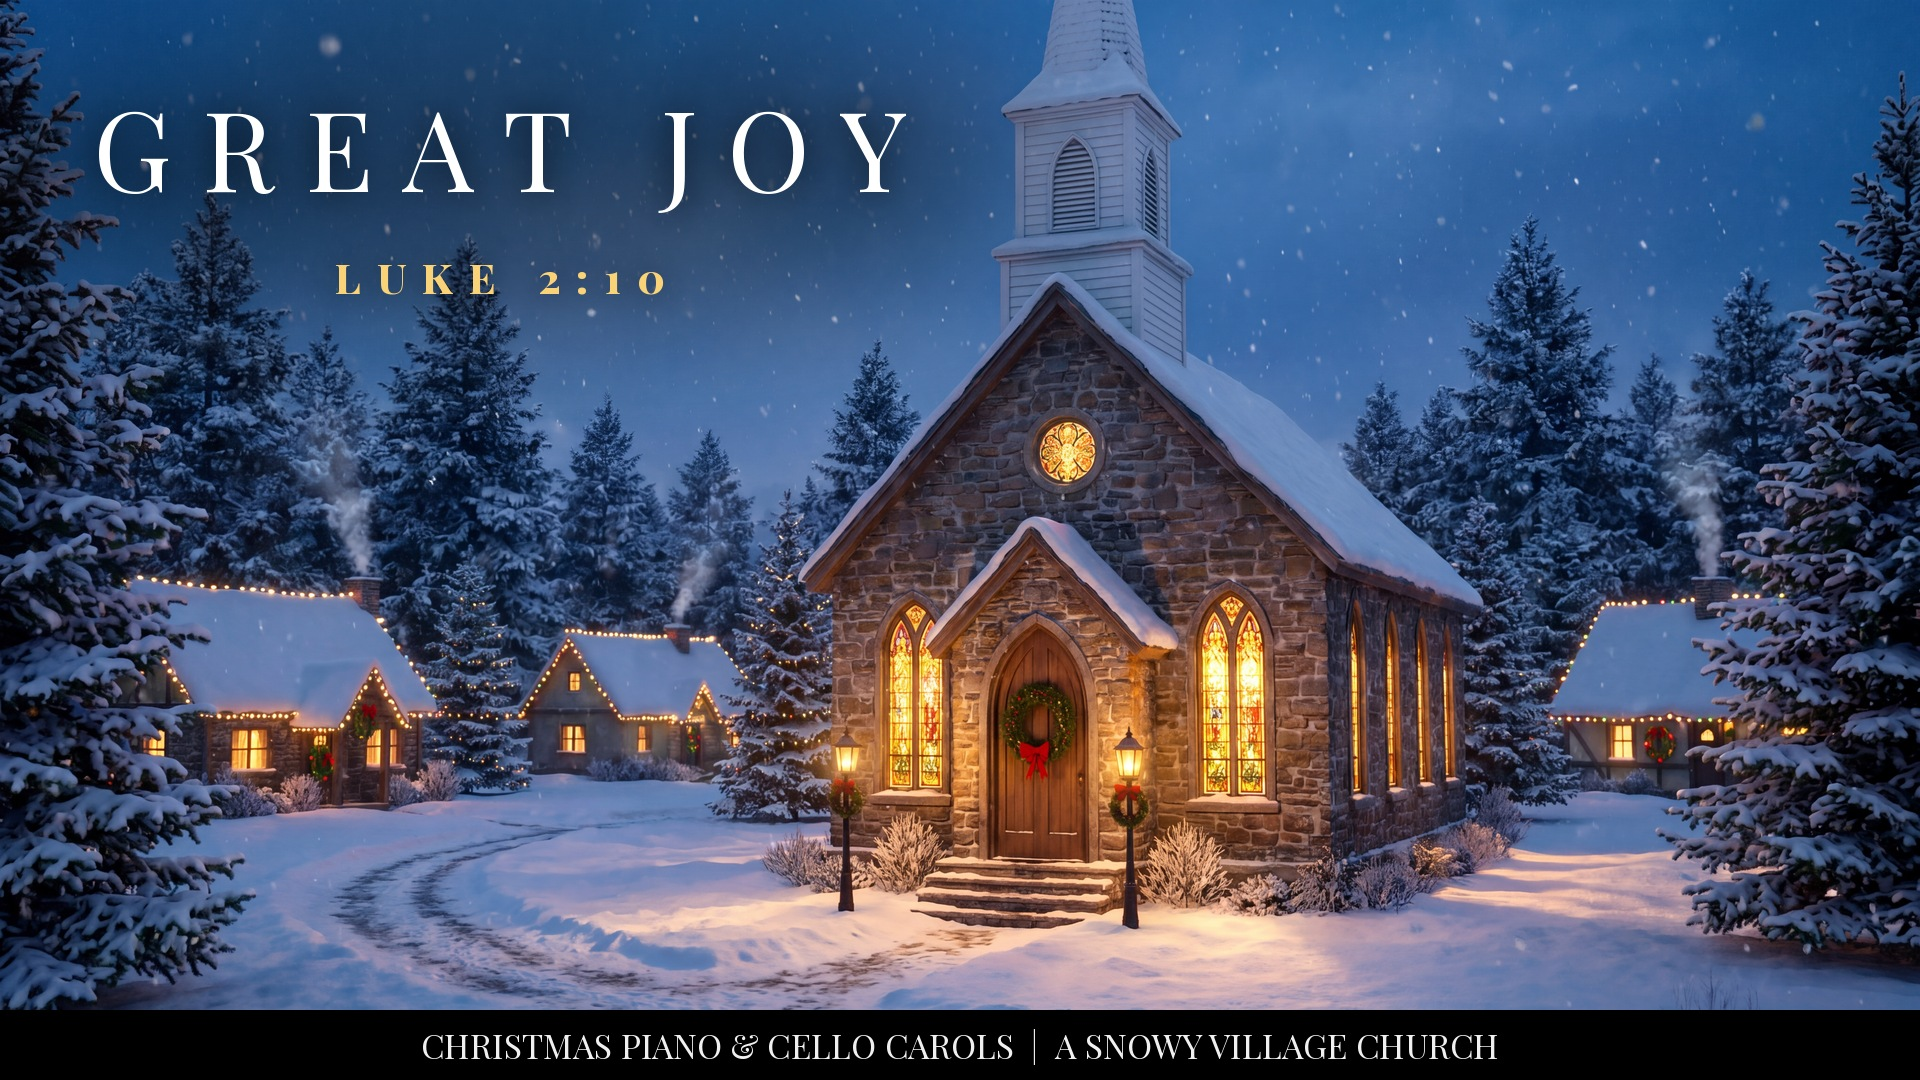
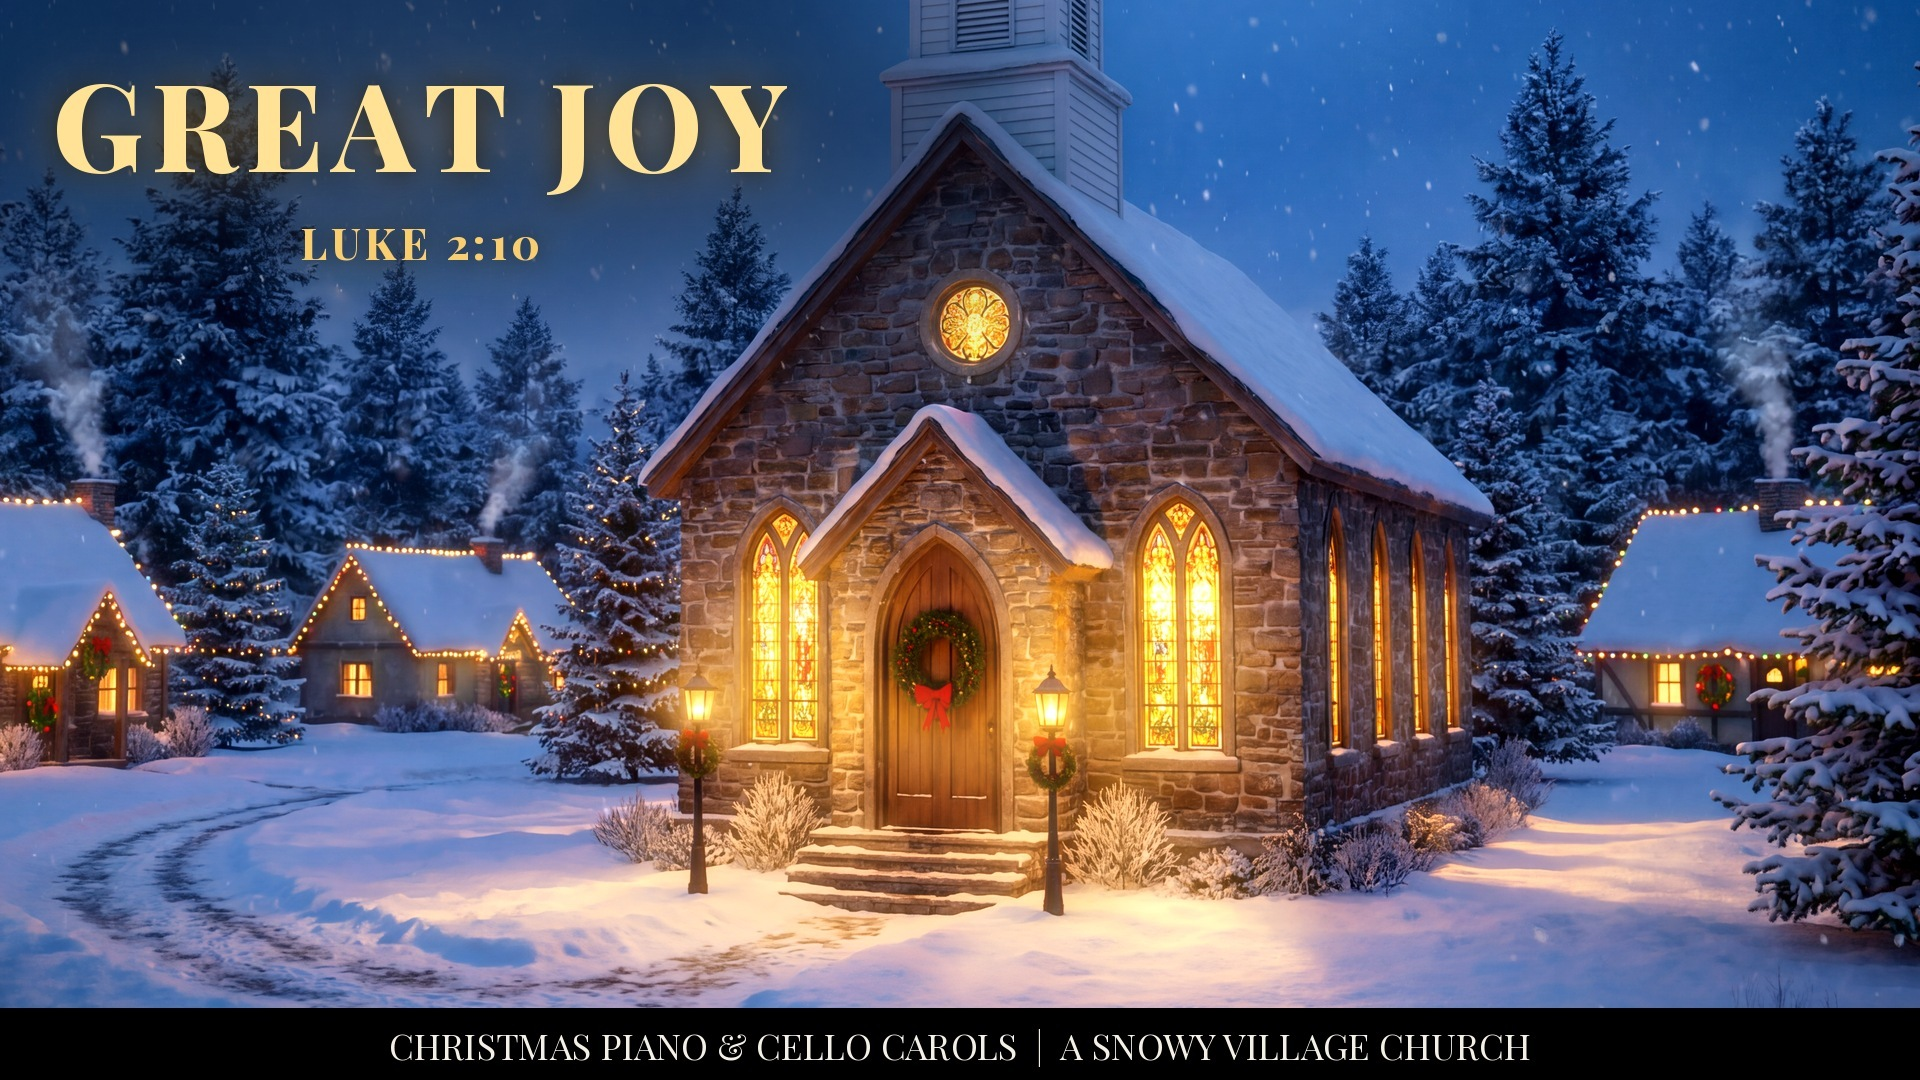
Great Joy: bolder cover B, intro opens on cover and eases out to full view
Claude-Session: https://claude.ai/code/session_01YR5eRpJdogsjAzxdU8Z7gL

diff --git a/christmas-church-render/cover_bold.py b/christmas-church-render/cover_bold.py
@@ -1,0 +1,58 @@
+# Bolder cover options for GREAT JOY. Usage: python3 cover_bold.py still_4k.png outdir
+import sys, os, numpy as np
+from PIL import Image, ImageDraw, ImageFont, ImageFilter, ImageEnhance, ImageChops
+B=os.path.dirname(os.path.abspath(__file__)); F=B+"/fonts/"; W,H=1920,1080
+src=Image.open(sys.argv[1]).convert("RGB"); out=sys.argv[2]
+STRIP="CHRISTMAS PIANO & CELLO CAROLS  |  A SNOWY VILLAGE CHURCH"
+def font(n,s,wt=None):
+    f=ImageFont.truetype(F+n,s)
+    if wt:
+        try: f.set_variation_by_axes([wt])
+        except Exception: pass
+    return f
+def crop(cx,cy,cw):
+    W0,H0=src.size; w=int(W0*cw); h=int(w*9/16); x0=max(0,min(W0-w,int(W0*cx-w/2))); y0=max(0,min(H0-h,int(H0*cy-h/2)))
+    return src.crop((x0,y0,x0+w,y0+h)).resize((W,H),Image.LANCZOS)
+def punch(im):
+    im=ImageEnhance.Color(im).enhance(1.18); im=ImageEnhance.Contrast(im).enhance(1.10)
+    a=np.asarray(im).astype(np.float32)/255
+    lum=a.max(axis=2); warm=(a[...,0]>a[...,2]+0.08)&(lum>0.55)            # warm light: windows, lamps, bulbs
+    m=Image.fromarray((warm*255).astype(np.uint8)).filter(ImageFilter.GaussianBlur(18))
+    glow=Image.composite(Image.new("RGB",(W,H),(255,170,70)),Image.new("RGB",(W,H),(0,0,0)),m)
+    im=ImageChops.screen(im,ImageEnhance.Brightness(glow).enhance(0.55))
+    v=Image.new("L",(W,H),0); ImageDraw.Draw(v).ellipse((-300,-250,W+300,H+250),fill=255)
+    v=v.filter(ImageFilter.GaussianBlur(200)); return Image.composite(im,Image.new("RGB",(W,H),(4,6,14)),v)
+def spaced(d,text,f,y,fill,spc,cx):
+    ws=[d.textlength(c,font=f) for c in text]; x=cx-(sum(ws)+spc*(len(text)-1))/2
+    for c,w in zip(text,ws): d.text((x,y),c,font=f,fill=fill); x+=w+spc
+    return cx-(sum(ws)+spc*(len(text)-1))/2, x
+def title(im,cx,y,size,spc,gold=False,halo=True,maxw=860):
+    im=im.convert("RGBA")
+    while True:
+        tf=font("PlayfairDisplay.ttf",size,800); dd=ImageDraw.Draw(im)
+        tw=sum(dd.textlength(c,font=tf) for c in "GREAT JOY")+spc*8
+        if tw<=maxw: break
+        size-=4; spc=max(8,spc-1)
+    cx=max(cx,40+tw/2)
+    rf=font("PlayfairDisplay.ttf",int(size*0.36),800)
+    if halo:
+        h=Image.new("L",(W,H),0); ImageDraw.Draw(h).ellipse((cx-640,y-80,cx+640,y+size*2.2),fill=140)
+        h=h.filter(ImageFilter.GaussianBlur(80)); hl=Image.new("RGBA",(W,H),(6,8,18,0)); hl.putalpha(h); im=Image.alpha_composite(im,hl)
+    txt=Image.new("RGBA",(W,H),(0,0,0,0)); d=ImageDraw.Draw(txt)
+    col=(255,226,150,255) if gold else (255,255,255,255)
+    spaced(d,"GREAT JOY",tf,y,col,spc,cx); spaced(d,"LUKE 2:10",rf,y+int(size*1.42),(250,205,110,255),int(spc*0.6),cx)
+    a=txt.split()[3]
+    sh=Image.new("RGBA",(W,H),(0,0,0,0)); sh.putalpha(a.filter(ImageFilter.GaussianBlur(14)).point(lambda v:int(v*0.95)))
+    gl=Image.new("RGBA",(W,H),(255,200,110,0)); gl.putalpha(a.filter(ImageFilter.GaussianBlur(28)).point(lambda v:int(v*0.55)))
+    return Image.alpha_composite(Image.alpha_composite(Image.alpha_composite(im,sh),gl),txt)
+def strip(im):
+    d=ImageDraw.Draw(im); sf=font("PlayfairDisplay.ttf",36); d.rectangle((0,H-72,W,H),fill=(0,0,0,255))
+    tw=d.textlength(STRIP,font=sf); d.text(((W-tw)/2,H-59),STRIP,font=sf,fill=(245,240,230,255)); return im.convert("RGB")
+# A: same framing as the video, punchier color + glow, bigger gold title
+a=strip(title(punch(crop(0.5,0.5,1.0)),490,60,170,20,gold=True,maxw=880)); a.save(out+"/Cover option A (bold, same view).jpg",quality=93)
+# B: closer on the church, big gold title over the left sky
+b=strip(title(punch(crop(0.55,0.58,0.80)),420,40,170,20,gold=True,maxw=760)); b.save(out+"/Cover option B (closer).jpg",quality=93)
+# C: same framing, big white title with gold reference
+c=strip(title(punch(crop(0.5,0.5,1.0)),490,60,170,20,gold=False,maxw=880)); c.save(out+"/Cover option C (white title).jpg",quality=93)
+S=Image.new("RGB",(1920,360)); [S.paste(x.resize((640,360),Image.LANCZOS),(640*i,0)) for i,x in enumerate((a,b,c))]; S.save(out+"/Cover options A-C.jpg",quality=90)
+print("ok")

diff --git a/christmas-church-render/render.py b/christmas-church-render/render.py
@@ -35,7 +35,7 @@ if not os.path.exists(AUD):
     args+=['-filter_complex',';'.join(fc),'-map','[aout]','-t',f"{FULL:.2f}",'-c:a','aac','-b:a','192k','-ar','48000',AUD+".tmp.m4a"]
     subprocess.run(args,check=True); os.rename(AUD+".tmp.m4a",AUD)
 # 2) video + mux
-events=[(A+("title_10min.png" if SHORT else "title.png"),0,4,0,2.5)]   # hover hook: cover title, fades out 1.5-4 s
+events=[(A+("intro_cover.png" if SHORT else "title.png"),0,3,0,1.5)]   # hover hook: frame 1 = exact cover B, fades 1.5-3 s into the same framing
 if SHORT:
     events+=[(A+f"v{k:02d}.png",40+100*i,22,2,2) for i,k in enumerate(range(6))]  # Luke 2:11 first
     events+=[(A+f"cta_{k}.png",s,8,1,1.5) for k,s in (("amen",95),("sub",295),("share",495))]
@@ -59,6 +59,8 @@ if os.environ.get('ZOOM','1')!='0':
         u=f"clip(({T}-{a})/{b-a},0,1)"; return f"({u}*{u}*(3-2*{u}))"
     targets=[(0.55,0.72),(0.57,0.22),(0.17,0.64),(0.86,0.64)]  # church door, steeple, left cottages, right cottage
     zt=["0"]; fx=["0"]; fy=["0"]
+    if SHORT:  # intro: start on cover B framing (crop 80% wide at 0.55,0.58), ease out to the full view 3-7 s
+        env=f"(1-{sm(3,7)})"; zt.append(f"0.25*{env}"); fx.append(f"0.25*{env}"); fy.append(f"0.4*{env}")
     for i in range(10):
         s=(150+200*i) if SHORT else 270+540*i; tx,ty=targets[i%4]
         if s+46>FULL-30: continue
